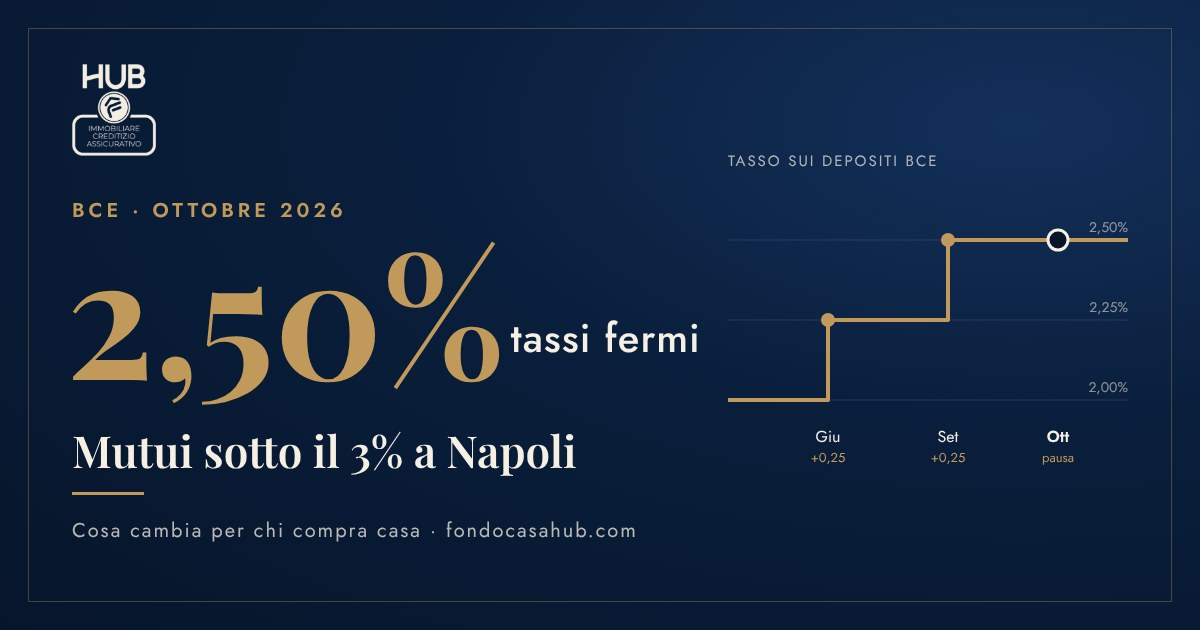
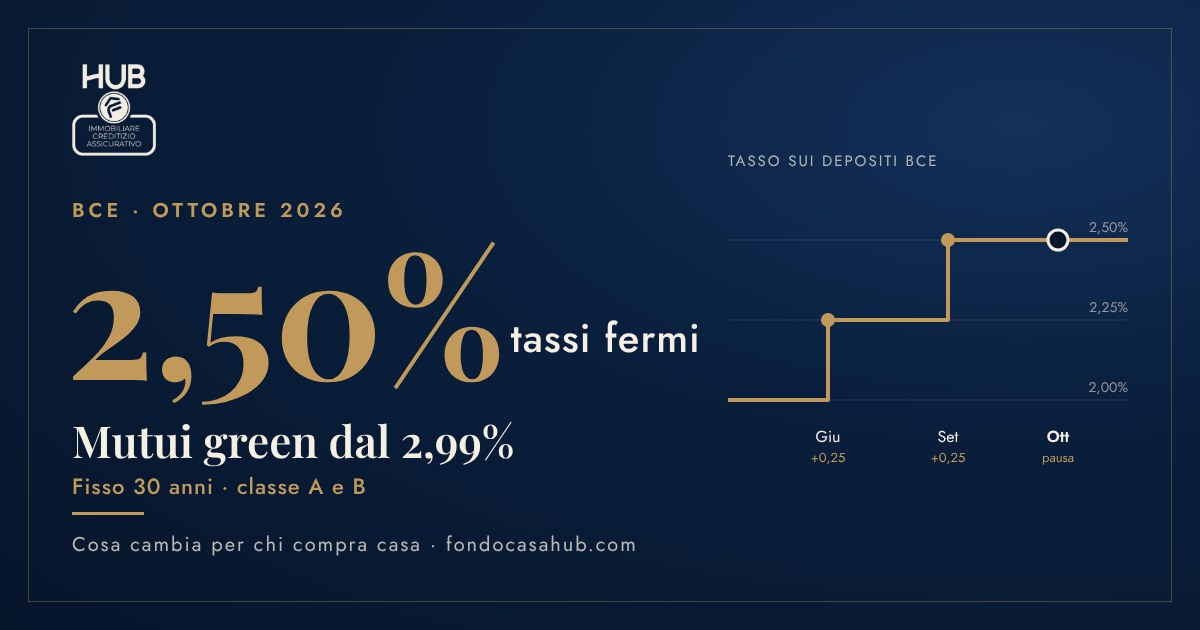
Blog BCE ottobre 2026: tassi fissi green e non green, spread
- Fisso 30 anni: TAN dal 2,99% (green, classe A e B) e dal 3,19% (non green)
- Spiegazione dello spread rispetto al tasso BCE
- Copertina: "Mutui green dal 2,99%"

Claude-Session: https://claude.ai/code/session_011GrFucbRq7e9fELLPCgMFc

Changed region(s): [[0.0617, 0.6635, 0.5242, 0.8746]]

diff --git a/src/pages/BlogPage.jsx b/src/pages/BlogPage.jsx
@@ -19,9 +19,11 @@ export const ARTICLES = [
       <p>Per chi vive a Napoli e sta pensando di comprare casa — al <a href="/agenzia-immobiliare-vomero-napoli">Vomero</a>, a Chiaia, al Centro Storico o in uno dei quartieri che seguiamo come <strong>HUB</strong> — la domanda è una sola: cosa cambia nella rata del mio mutuo?</p>
 
       <h2>I numeri che contano (per chi deve chiedere un mutuo oggi)</h2>
+      <p>Prima un chiarimento: il tasso BCE non è il tasso che paghi sul mutuo. La banca parte da un parametro di riferimento (Euribor per il variabile, IRS per il fisso, che si muovono seguendo le decisioni della BCE) e aggiunge il proprio <strong>spread</strong>. Per questo i tassi dei mutui sono più alti del 2,50% fissato a Francoforte. Anche la classe energetica della casa conta: per gli immobili in <strong>classe A e B</strong> le banche offrono i cosiddetti <strong>mutui green</strong>, con spread più bassi.</p>
       <p>A fine ottobre 2026 lo scenario per chi apre un mutuo è questo:</p>
       <ul>
-        <li><strong>Tasso fisso</strong> di partenza: dal <strong>2,80%</strong> (TAEG tipicamente intorno al 3%)</li>
+        <li><strong>Tasso fisso 30 anni, mutui green</strong> (classe energetica A e B): TAN dal <strong>2,99%</strong></li>
+        <li><strong>Tasso fisso 30 anni, mutui non green</strong>: TAN dal <strong>3,19%</strong></li>
         <li><strong>Tasso variabile</strong> di partenza: dal <strong>2,60%</strong></li>
         <li><strong>Euribor 3 mesi</strong>: intorno al <strong>2,64%</strong></li>
         <li><strong>Euribor 12 mesi</strong>: circa <strong>3,23%</strong></li>
